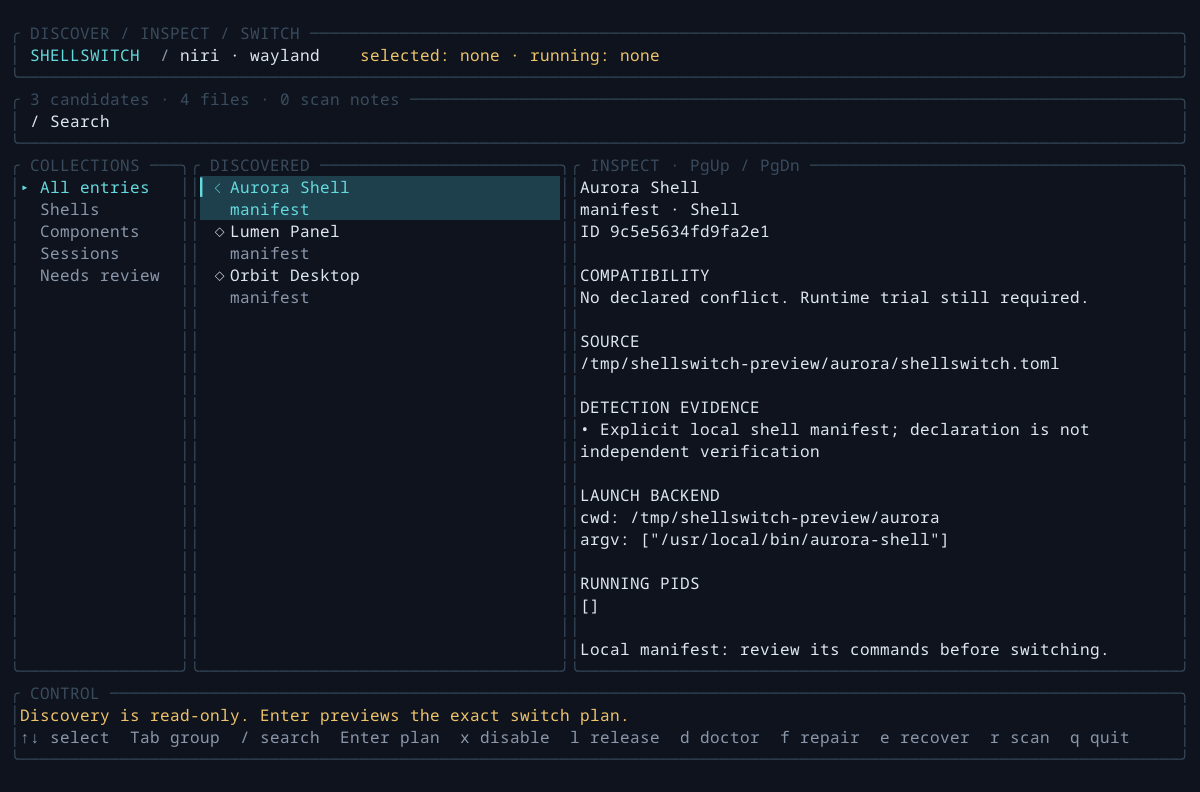
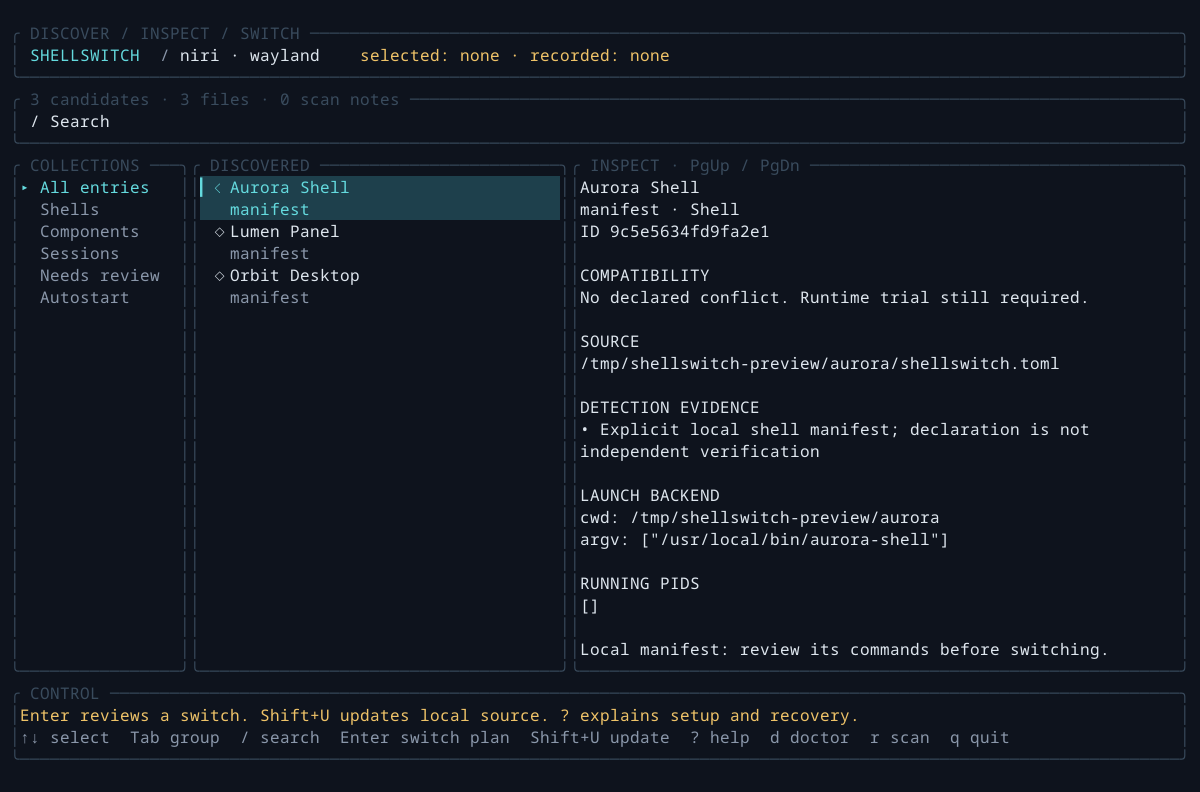
Remove local paths from public previews and release packages

diff --git a/README.md b/README.md
@@ -3,7 +3,7 @@
 Rust desktop-shell discovery and transactional lifecycle control, with a three-pane Ratatui interface inspired by Linutil.
 ## Install the command
 
-Download and extract the Linux x86_64 archive from the [0.2.5 release](https://github.com/deltadasher/Shellswitch/releases/tag/v0.2.5), then run:
+Download and extract the Linux x86_64 archive from the [latest release](https://github.com/deltadasher/Shellswitch/releases/latest), then run:
 
 ```sh
 ./install.sh
@@ -212,6 +212,13 @@ Limits: depth 12, 30,000 files; text metadata up to 512 KiB; shell component agg
 cargo build --release --locked
 cargo test --locked -- --test-threads=1
 cargo clippy --all-targets -- -D warnings
+```
+
+To prepare a public Linux archive, check out the commit or tag to distribute and run the following commands from the repository root. The packager builds the committed tree with its lockfile, remaps local source paths in the executable and writes numeric root ownership into the tar headers. Choose a separate output directory for each release so its checksum file stays with its archive. Generate public previews with `shellswitch --isolated --root <example-directory> render --svg` from a neutral path containing only example manifests. The preview displays the scan path.
+
+```sh
+scripts/package-release.sh dist/release
+(cd dist/release && sha256sum --check SHA256SUMS)
 ```
 
 See [verification](docs/VERIFICATION.md), [incident analysis](docs/INCIDENT-AND-DESIGN.md), and [handoff contract](docs/HANDOFF.md). Linux process tests use disposable processes and temporary HOME/XDG directories. Real Niri validates fixtures; live reload and user-service behavior use fake endpoints. Actual graphical switching and host service operation are not verified in the sandbox.
